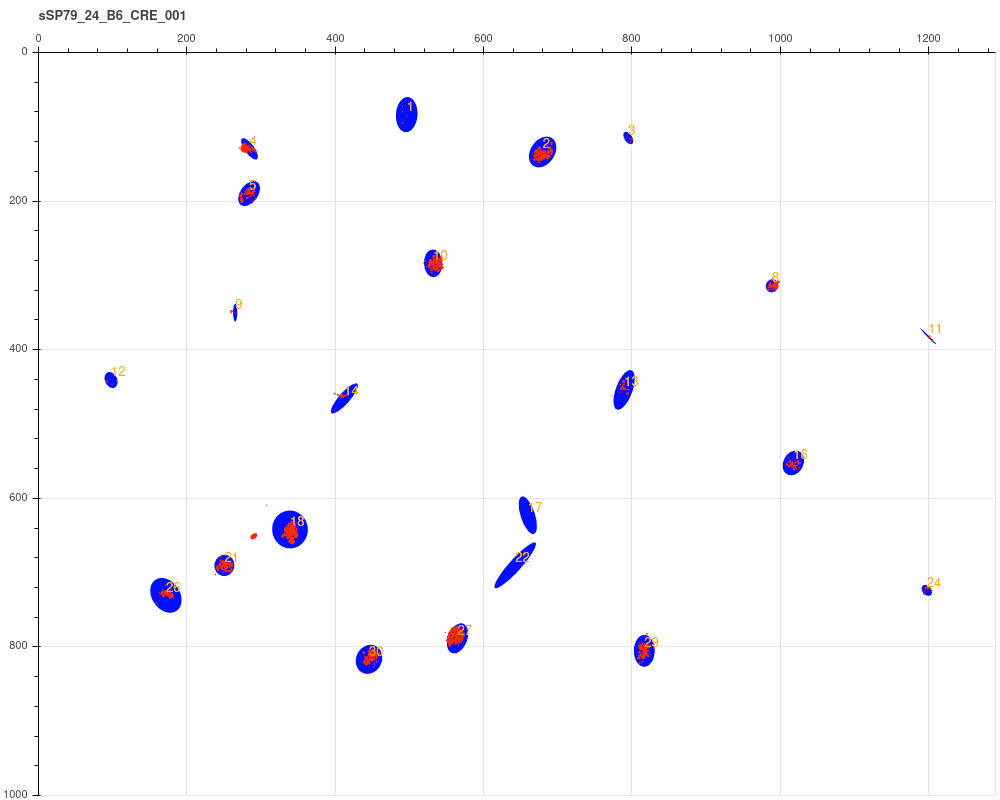
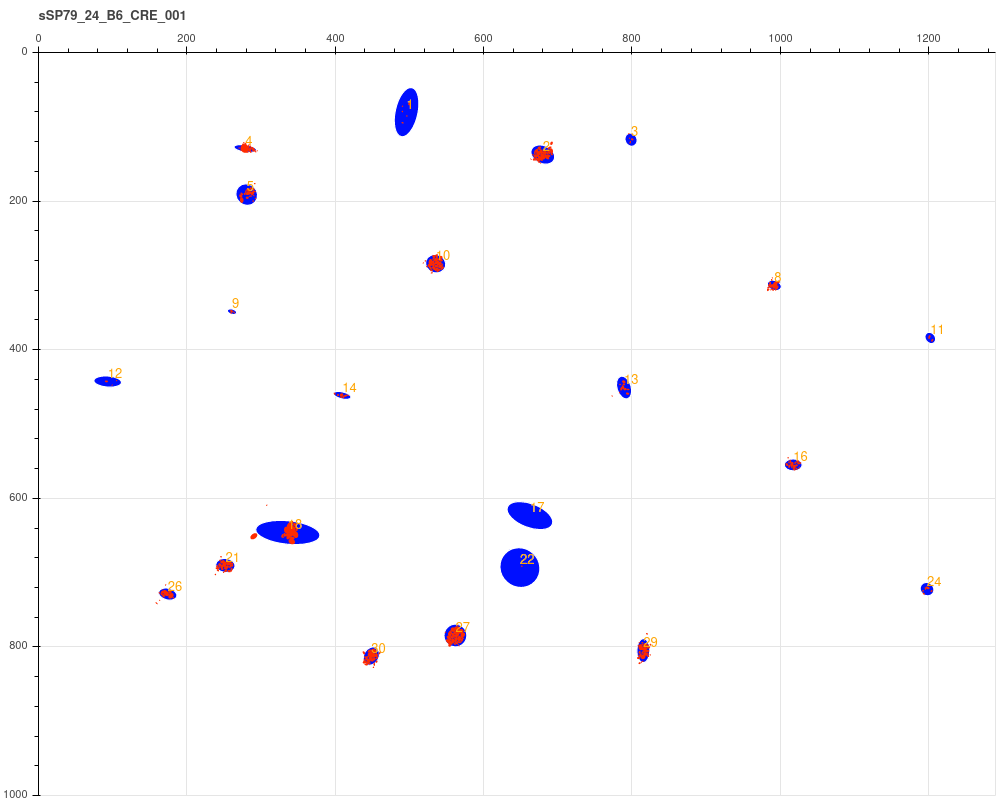
solve outlier issue in confidence ellipse algorithm, solve angle bug

diff --git a/puncta_counter/src/ellipse_algos.py b/puncta_counter/src/ellipse_algos.py
@@ -1,12 +1,60 @@
 import numpy as np
 import matplotlib.pyplot as plt
 
+
 # Functions
-# # min_vol_ellipse
 # # confidence_ellipse
+# # min_vol_ellipse
 
 
-def min_vol_ellipse(P, tolerance=0.01):
+def confidence_ellipse(P, aweights=None, n_std=1, **kwargs):
+    """Source code from: https://matplotlib.org/stable/gallery/statistics/confidence_ellipse.html
+    Note that aweights are required to prevent this algorithm from being sensitive to outliers
+    This is only meant to be used for 2D
+    """
+    x, y = P
+    if x.size != y.size:
+        raise ValueError("x and y must be the same size")
+
+    # dimension check
+    # for a 2d image, d=2 and N is the number of points
+    if x.size <= 2:
+        return np.nan, np.nan, np.nan, np.nan, np.nan
+
+    cov = np.cov(x, y, aweights=aweights)
+    pearson = cov[0, 1]/np.sqrt(cov[0, 0] * cov[1, 1])
+    
+    # Using a special case to obtain the eigenvalues of this two-dimensionl dataset.
+    major_axis_length = np.sqrt(max(0, 1 + pearson))
+    minor_axis_length = np.sqrt(max(0, 1 - pearson))
+
+
+    # Calculate center
+    center_x = sum(x*aweights)/sum(aweights) if aweights else np.mean(x)
+    center_y = sum(y*aweights)/sum(aweights) if aweights else np.mean(y)
+   
+
+    # Calculating the stdandard deviation of x
+
+    # calculating the stdandard deviation of y
+    scale_height = np.sqrt(cov[1, 1]) * n_std
+    
+    # Perform PCA
+    eig_vals, eig_vecs = np.linalg.eig(cov)
+
+    if eig_vals[0] > eig_vals[1]:
+        major_axis_length = 2 * np.sqrt(cov[0, 0]) * n_std
+        minor_axis_length = 2 * np.sqrt(cov[1, 1]) * n_std
+        orientation = np.arcsin(eig_vecs[0, 0])/np.pi*180
+    else:
+        major_axis_length = 2 * np.sqrt(cov[1, 1]) * n_std
+        minor_axis_length = 2 * np.sqrt(cov[0, 0]) * n_std
+        orientation = np.arcsin(eig_vecs[1, 0])/np.pi*180
+    
+    return center_x, center_y, major_axis_length, minor_axis_length, orientation
+
+
+def min_vol_ellipse(P, tolerance=0.01, **kwargs):
     # See: https://www.mathworks.com/matlabcentral/fileexchange/9542-minimum-volume-enclosing-ellipsoid
     # Original author: Nima Moshtagh (nima@seas.upenn.edu)
     # Translated to Python by Harrison Wang
@@ -99,66 +147,3 @@ def min_vol_ellipse(P, tolerance=0.01):
     max_y = center_y + np.sqrt(inv_A[1][1])
     
     return center_x, center_y, min_x, max_x, min_y, max_y
-
-
-def confidence_ellipse(P, n_std=3.0, facecolor='none', **kwargs):
-    """Source code from: https://matplotlib.org/stable/gallery/statistics/confidence_ellipse.html
-    Note that this algorithm is very sensitive to outliers
-    """
-    
-    x, y = P
-    # if x.size != y.size:
-    #     raise ValueError("x and y must be the same size")  # note: this is impossible
-
-    # dimension check
-    # for a 2d image, d=2 and N is the number of points
-    d, N = P.shape
-    if N <= d:
-        return np.nan, np.nan, np.nan, np.nan, np.nan
-
-    cov = np.cov(x, y)
-    pearson = cov[0, 1]/np.sqrt(cov[0, 0] * cov[1, 1])
-    
-    # Using a special case to obtain the eigenvalues of this two-dimensionl dataset.
-    major_axis_length = np.sqrt(1 + pearson)
-    minor_axis_length = np.sqrt(1 - pearson)
-    
-    # Calculating the stdandard deviation of x
-    scale_x = np.sqrt(cov[0, 0]) * n_std
-    center_x = np.mean(x)
-
-    # calculating the stdandard deviation of y
-    scale_y = np.sqrt(cov[1, 1]) * n_std
-    center_y = np.mean(y)
-    
-    
-    # calculating orientation "angle"
-    eig_vals, eig_vecs = np.linalg.eig(cov)
-
-    if eig_vals[0] > eig_vals[1]:
-        width = major_axis_length * 2
-        height = minor_axis_length * 2
-    else:
-        width = minor_axis_length * 2
-        height = major_axis_length * 2
-    orientation = np.arccos(eig_vecs[0, 0])/np.pi*180  # not entire certain this is it
-    
-    minor_axis_length, major_axis_length = sorted((width * scale_x, height * scale_y))
-    
-    return center_x, center_y, minor_axis_length, major_axis_length, orientation
-    
-    # matplotlib
-    # from matplotlib.patches import Ellipse
-    # ellipse = Ellipse((0, 0),
-    #     width=width,
-    #     height=height,
-    #     facecolor=facecolor,
-    #     **kwargs)    
-
-    # transf = transforms.Affine2D() \
-    #     .rotate_deg(orientation) \
-    #     .scale(scale_x, scale_y) \
-    #     .translate(center_x, center_y)
-
-    # ellipse.set_transform(transf + ax.transData)
-    # return ax.add_patch(ellipse)

diff --git a/puncta_counter/src/summarize.py b/puncta_counter/src/summarize.py
@@ -42,7 +42,7 @@ def generate_circle(puncta):
     return puncta_summary
 
 
-def generate_ellipse(puncta, algo='min_vol_ellipse'):
+def generate_ellipse(puncta, algo='confidence_ellipse'):
     """Generates an ellipse, which comes with the following dimensions:
     ["center_x",
      "center_y",
@@ -55,20 +55,32 @@ def generate_ellipse(puncta, algo='min_vol_ellipse'):
     """
         
     if algo == 'min_vol_ellipse':
-        ellipse_func = lambda x: min_vol_ellipse(np.transpose(np.array(x)), tolerance=0.05)
+        ellipse_func = min_vol_ellipse
     elif algo == 'confidence_ellipse':
-        ellipse_func = lambda x: confidence_ellipse(np.transpose(np.array(x)), n_std=2)
+        ellipse_func = confidence_ellipse
     else:
         raise ValueError("Choose one: ['min_vol_ellipse', 'confidence_ellipse']")
 
     puncta['center'] = puncta[['center_x', 'center_y']].apply(list, axis=1)
-    puncta_summary = puncta.groupby(['image_number', 'object_number'])[['center']].agg(list).reset_index().copy()
+    puncta['total_intensity'] = puncta["integrated_intensity"] * puncta["area"]
+
+    puncta_summary = (
+        puncta
+        .groupby(['image_number', 'object_number'])[['center', "total_intensity"]]
+        .agg(list)
+        .reset_index()
+    ).copy()
+
     puncta_summary[
-        ["center_x", "center_y", "minor_axis_length", "major_axis_length", "orientation"]
+        ["center_x", "center_y", "major_axis_length", "minor_axis_length", "orientation"]
     ] = pd.DataFrame(
-        puncta_summary["center"]
-        .apply(ellipse_func)
+        puncta_summary[["center", 'total_intensity']]
+        .apply(lambda x: ellipse_func(
+            np.transpose(np.array(x['center'])),
+            aweights=x['total_intensity'], n_std=2.5,  # algo='confidence_ellipse'
+            tolerance=0.05,  # algo='min_vol_ellipse'
+        ), axis=1)
         .to_list()
     )
-
+    
     return puncta_summary
